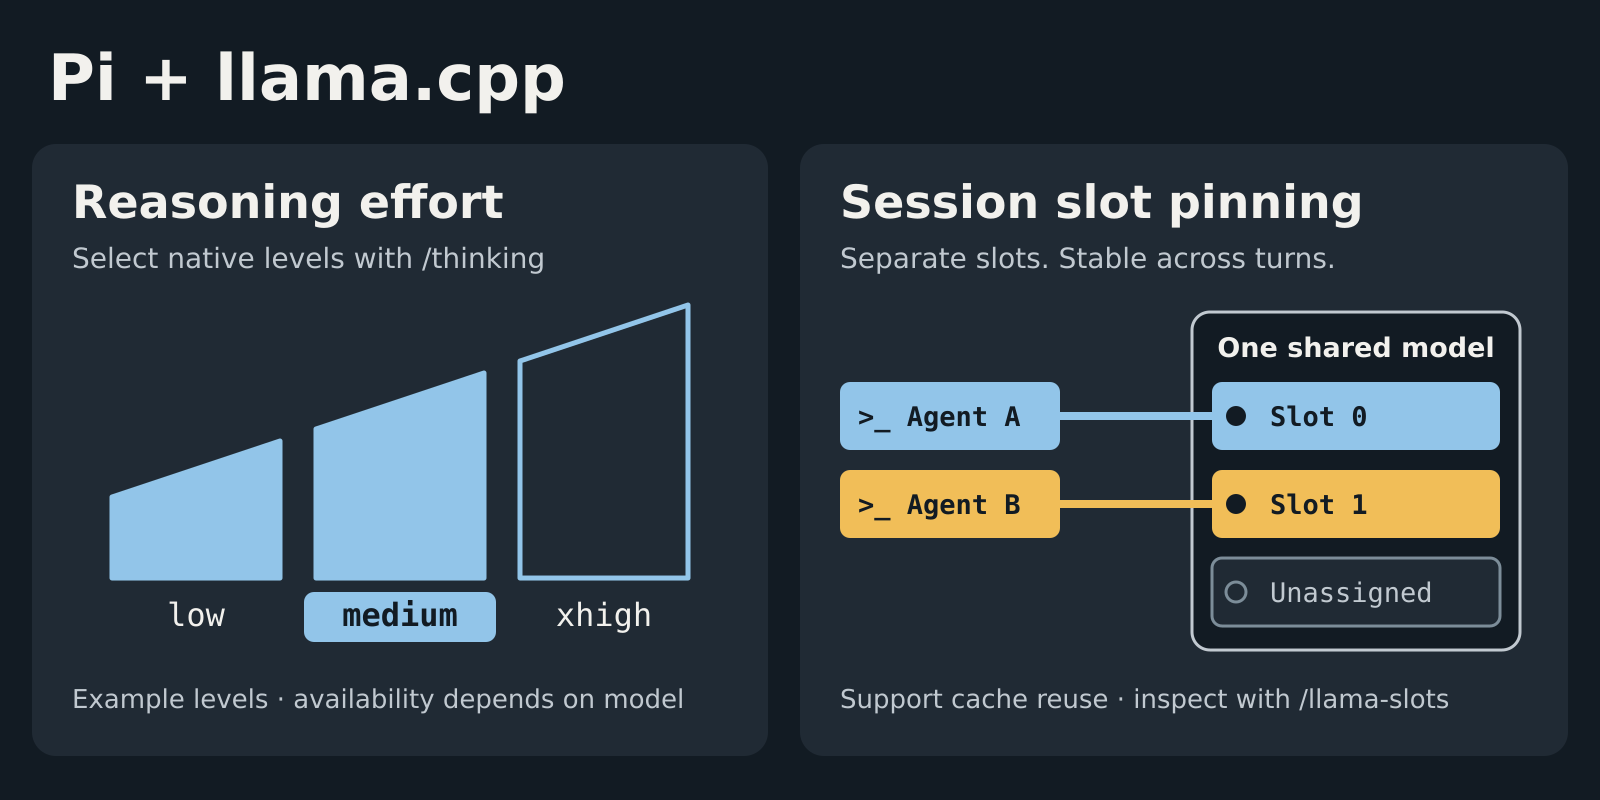
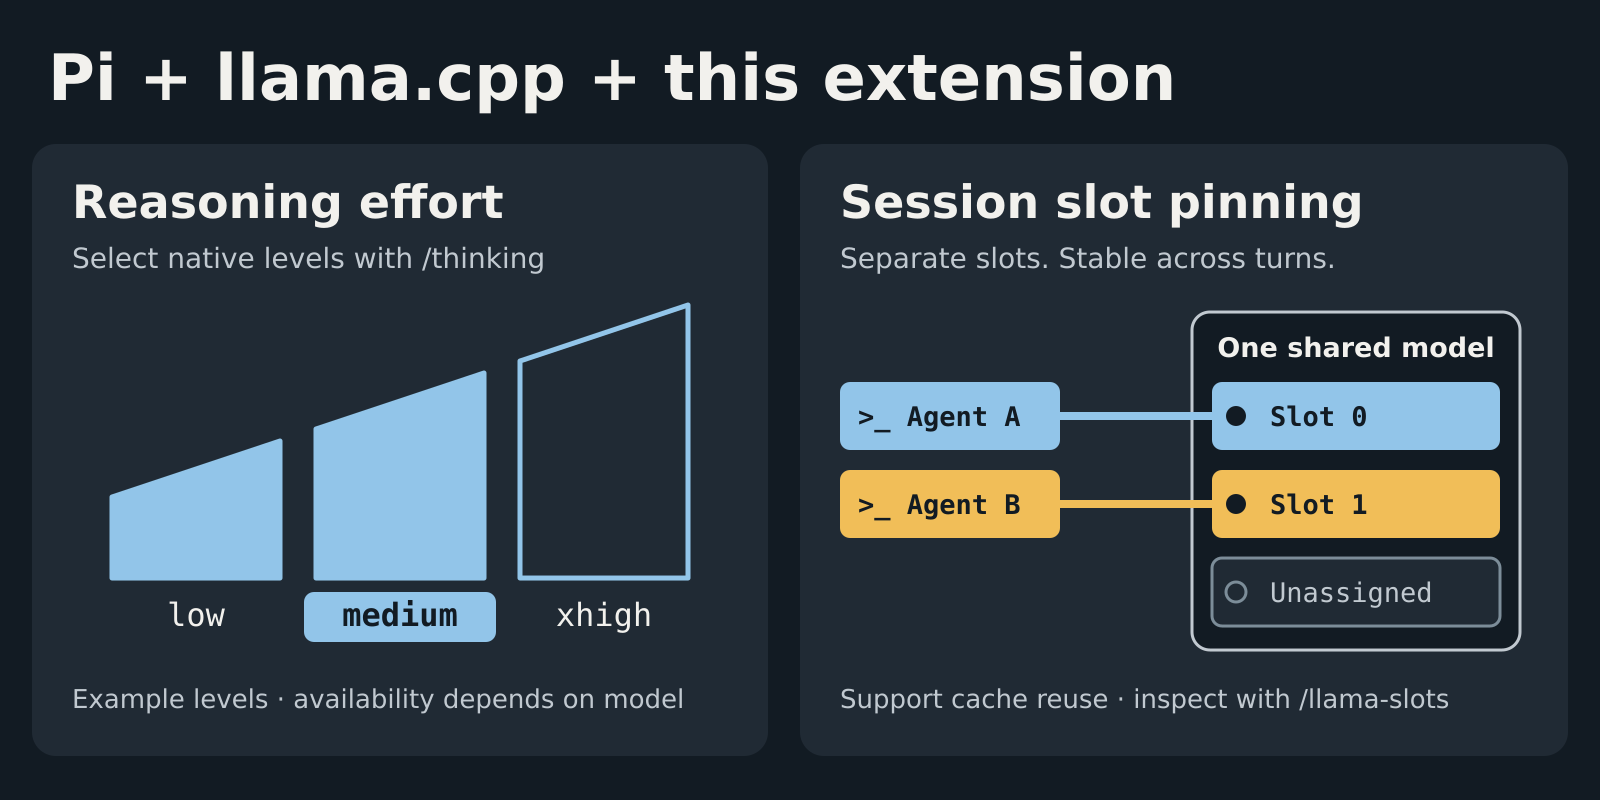
docs: contrast built-in Pi behavior with extension features

Changed region(s): [[0.375, 0.0625, 0.75, 0.125]]

diff --git a/README.md b/README.md
@@ -15,6 +15,10 @@ Extends [Pi](https://pi.dev)’s built-in llama.cpp integration with native reas
 
 Pi 1.5.2’s built-in llama.cpp integration handles connection, model selection, and generation, but does not discover the model’s native reasoning-effort levels or automatically pin sessions to separate server slots. This package adds those two capabilities using information reported by llama.cpp, without replacing Pi’s provider.
 
+For contrast, the built-in integration without this extension:
+
+![Pi 1.5.2 alone: the Qwen3.8-27B example offers off and medium without discovering native effort levels. Both agents leave slot selection to the server, with no automatic session-to-slot affinity. Cache reuse is still possible.](https://raw.githubusercontent.com/Ryu-CZ/pi-llama-reasoning/main/media/readme-baseline.png)
+
 **Choose how your model reasons.** Select supported native levels such as `low`, `medium`, and `xhigh` through Pi’s usual thinking selector, with Pi’s thinking token budgets.
 
 **Reduce reprocessing between agents.** Sessions sharing one model can displace each other’s cached conversations. Automatic slot pinning keeps participating sessions on separate available slots across turns, helping reuse their conversation prefixes instead of processing them again. Cache retention still depends on server settings and available memory.
